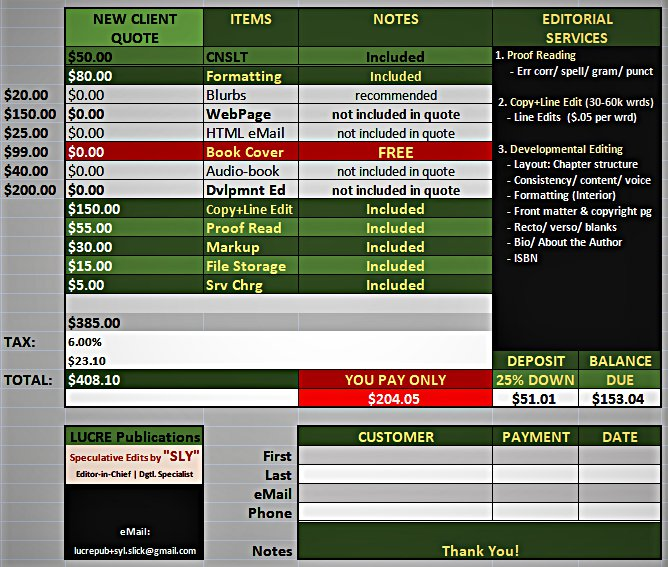
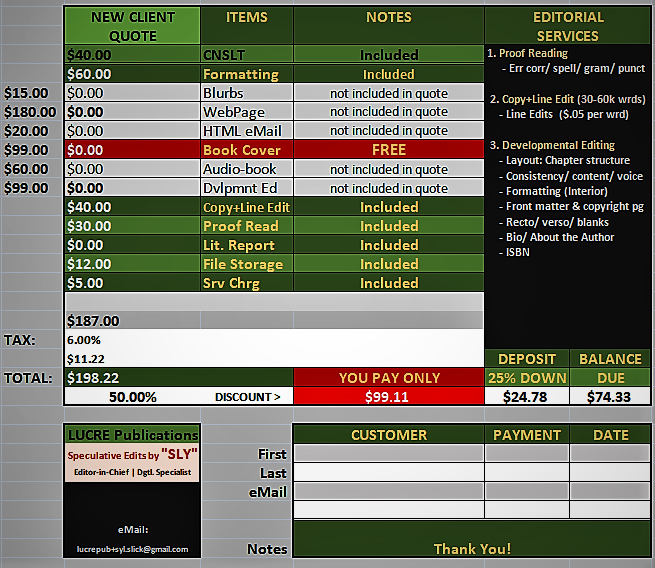
prices

diff --git a/index.html b/index.html
@@ -52,7 +52,7 @@
 
 
 	<div>
-		<p><strong>&nbsp;Lit. Bundle On SALE! <small>$</small>204</strong>
+		<p><strong>&nbsp;Lit. Bundle On SALE! <small>$</small>99</strong>
 		</p>
 
 		
@@ -105,7 +105,7 @@
 
 
 	<div>
-		<p><strong>&nbsp;Proofread: $50</strong> Dep. on Lit. Bundle</p>	
+		<p><strong>&nbsp;Proofread: $30</strong> Dep. on Lit. Bundle</p>	
 	</div>
 
 
@@ -227,7 +227,7 @@
 <br>
 				<h1><strong>Lit. Bundle</strong></h1>
 				<h1><span class="thick2">&frac12; OFF Ed. SALE!</span></h1>
-				<h1><strong>Only $204</strong></h1>
+				<h1><strong>Only $99</strong></h1>
 				
 <br>
 			</center>
@@ -388,7 +388,7 @@
 <br>
 
 	<center>
-		<h1 id="prices"><strong>PRICES</strong></h1>
+		<h1 id="prices"><strong>NEW LOW PRICES</strong></h1>
 
 <br>
 
@@ -399,7 +399,7 @@
 
 	  <div class="hero-section4">
 
-  	<h1><strong>LOW COST WRITER SUPT.</strong></h1>
+  	<h1><strong>BEST INDIE WRITER SUPT.</strong></h1>
   		
   	<h3>50% OFF 1st TIME CUSTOMERS</h3>
 <br>
@@ -416,46 +416,39 @@
 <br>
 <br>
 
-  	<h2>25% DOWN 	AFTER SAMP. APPROVAL</h2>
+  	<h2>$25 down after "samp.txt" approved</h2>
 
 			</center>
 		</div>
 
 <br>
 <br>
-  	<h2>YOU PAY $204 (SAVE $303)</h2>
+  	<h1><span class="thick2">YOUR PRICE: ONLY $99</span></h1>
 
 <br>
 
-		<h2><span>DISCLAIMER:</span></h2>
+		<h2>DISCLAIMER:</h2>
 <br>
 	  <p><span>We reserve the right to refuse manuscripts.</span></p>
 <br>
 	  		
 <hr>
 
-		<p>Select "Details" for Dropdown</p>
+
+
+		<p>Select Dropdown</p>
 <br>		
     		<div>
   				<details class="details">
-
-
-
-
-
-
-
-
-
+  					 <summary>Affordable Indie Writer Prices</summary>
+<br>
 			<section>
 				<small>
-
 <br>
 
-
 <ul>
-  				<div class="screen, border-left">
-  					<h3 class="price">Proofread @ $50</h3>
+  				<div class="screen">
+  					<h3 class="price">Proofread @ $30</h3>
   				</div>
 <br>
 
@@ -464,18 +457,18 @@
   				</div>
   			
 <br>
-	  			<div class="screen, border-left">
-  					<h3 class="price">Formatting @ $80</h3>
+	  			<div class="screen">
+  					<h3 class="price">Formatting @ $60</h3>
   				</div>
 <br>
 					
   				<div class="screen2 border-left2">
-  					<h3 class="price">Dev. Edits @ $200</h3>
+  					<h3 class="price">Dev. Edits @ $99</h3>
   				</div>
   			
 <br>
-  				<div class="screen, border-left">
-  			  		<h3 class="price">Copy + Line Edits @ $150</h3>
+  				<div class="screen">
+  			  		<h3 class="price">Copy + Line Edits @ $40</h3>
   				</div>
 <br>
 				
@@ -484,32 +477,35 @@
   				</div>
 	  			
 <br>
-  				<div class="screen, border-left">
-  					<h3 class="price">Files @ $15</h3>
+  				<div class="screen">
+  					<h3 class="price">File Storage @ $10</h3>
   				</div>
 <br>
   				<div class="screen2 border-left2">
-  					<h3 class="price">Web Landing Pg @ $150</h3>
+  					<h3 class="price">Web Landing Pg @ $180</h3>
   				</div>
 	  			
+
 <br>
-	  			<div class="screen, border-left">
+	  			<div class="screen">
   					<h3 class="price"><strong>FREE</strong> Book Cover</h3>
 	  			</div>
 <br>
   				<div class="screen2 border-left2">
-  					<h3 class="price">Marketing Email @ $25</h3>
+  					<h3 class="price">Marketing Email @ $20</h3>
   				</div>
 	  			
 <br>
-    			<div class="screen, border-left">
-    				<h3 class="price">Audiobook @ $40 (TTS)</h3>
+    			<div class="screen">
+    				<h3 class="price">Audiobook @ $60 (TTS)</h3>
     			</div>
-    		</section>
+
+    	</section>
 		
 <br>
 				</small>
     		</div>
+
     		</details>
 <br>
 		</div>
@@ -533,12 +529,33 @@
 
 
 
+
+
+
+
+
+
+
+
+
+
+
 	<center>
 	<h1 id="gfx">GFX &amp; MRKTNG</h1>
 	</center>
 
 <br>
 <br>
+
+
+
+
+
+
+
+
+
+
 
 	<section class="container-gfx">
 	
@@ -712,7 +729,7 @@ Please, review my manuscript.</textarea>
 				<h1><span class="thick2">Adv. Edits &amp; Layout</span></h1>
 
 <br>
-				<h1>Lit. Bundle: Only $204</h1>
+				<h1>Lit. Bundle: Only $99</h1>
 <br>
 <br>
 <br>
@@ -724,7 +741,7 @@ Please, review my manuscript.</textarea>
 <br>
 
 <hr>
-				<h3>SAVE $303 with LUCRE Today.</span></h3></i>
+				<h3>SAVE with LUCRE Today.</span></h3></i>
 <br>
 <br>
 	<h1><span class="thick2">FREE</span></h1>

diff --git a/main.css b/main.css
@@ -1203,7 +1203,6 @@ span.logo:hover {
 	width: 80%;
 	height: auto;
 	display: block;
-	filter: saturate(50%);
 	background-color: none;
 	border-style: none;
 	border-radius: 8px;
